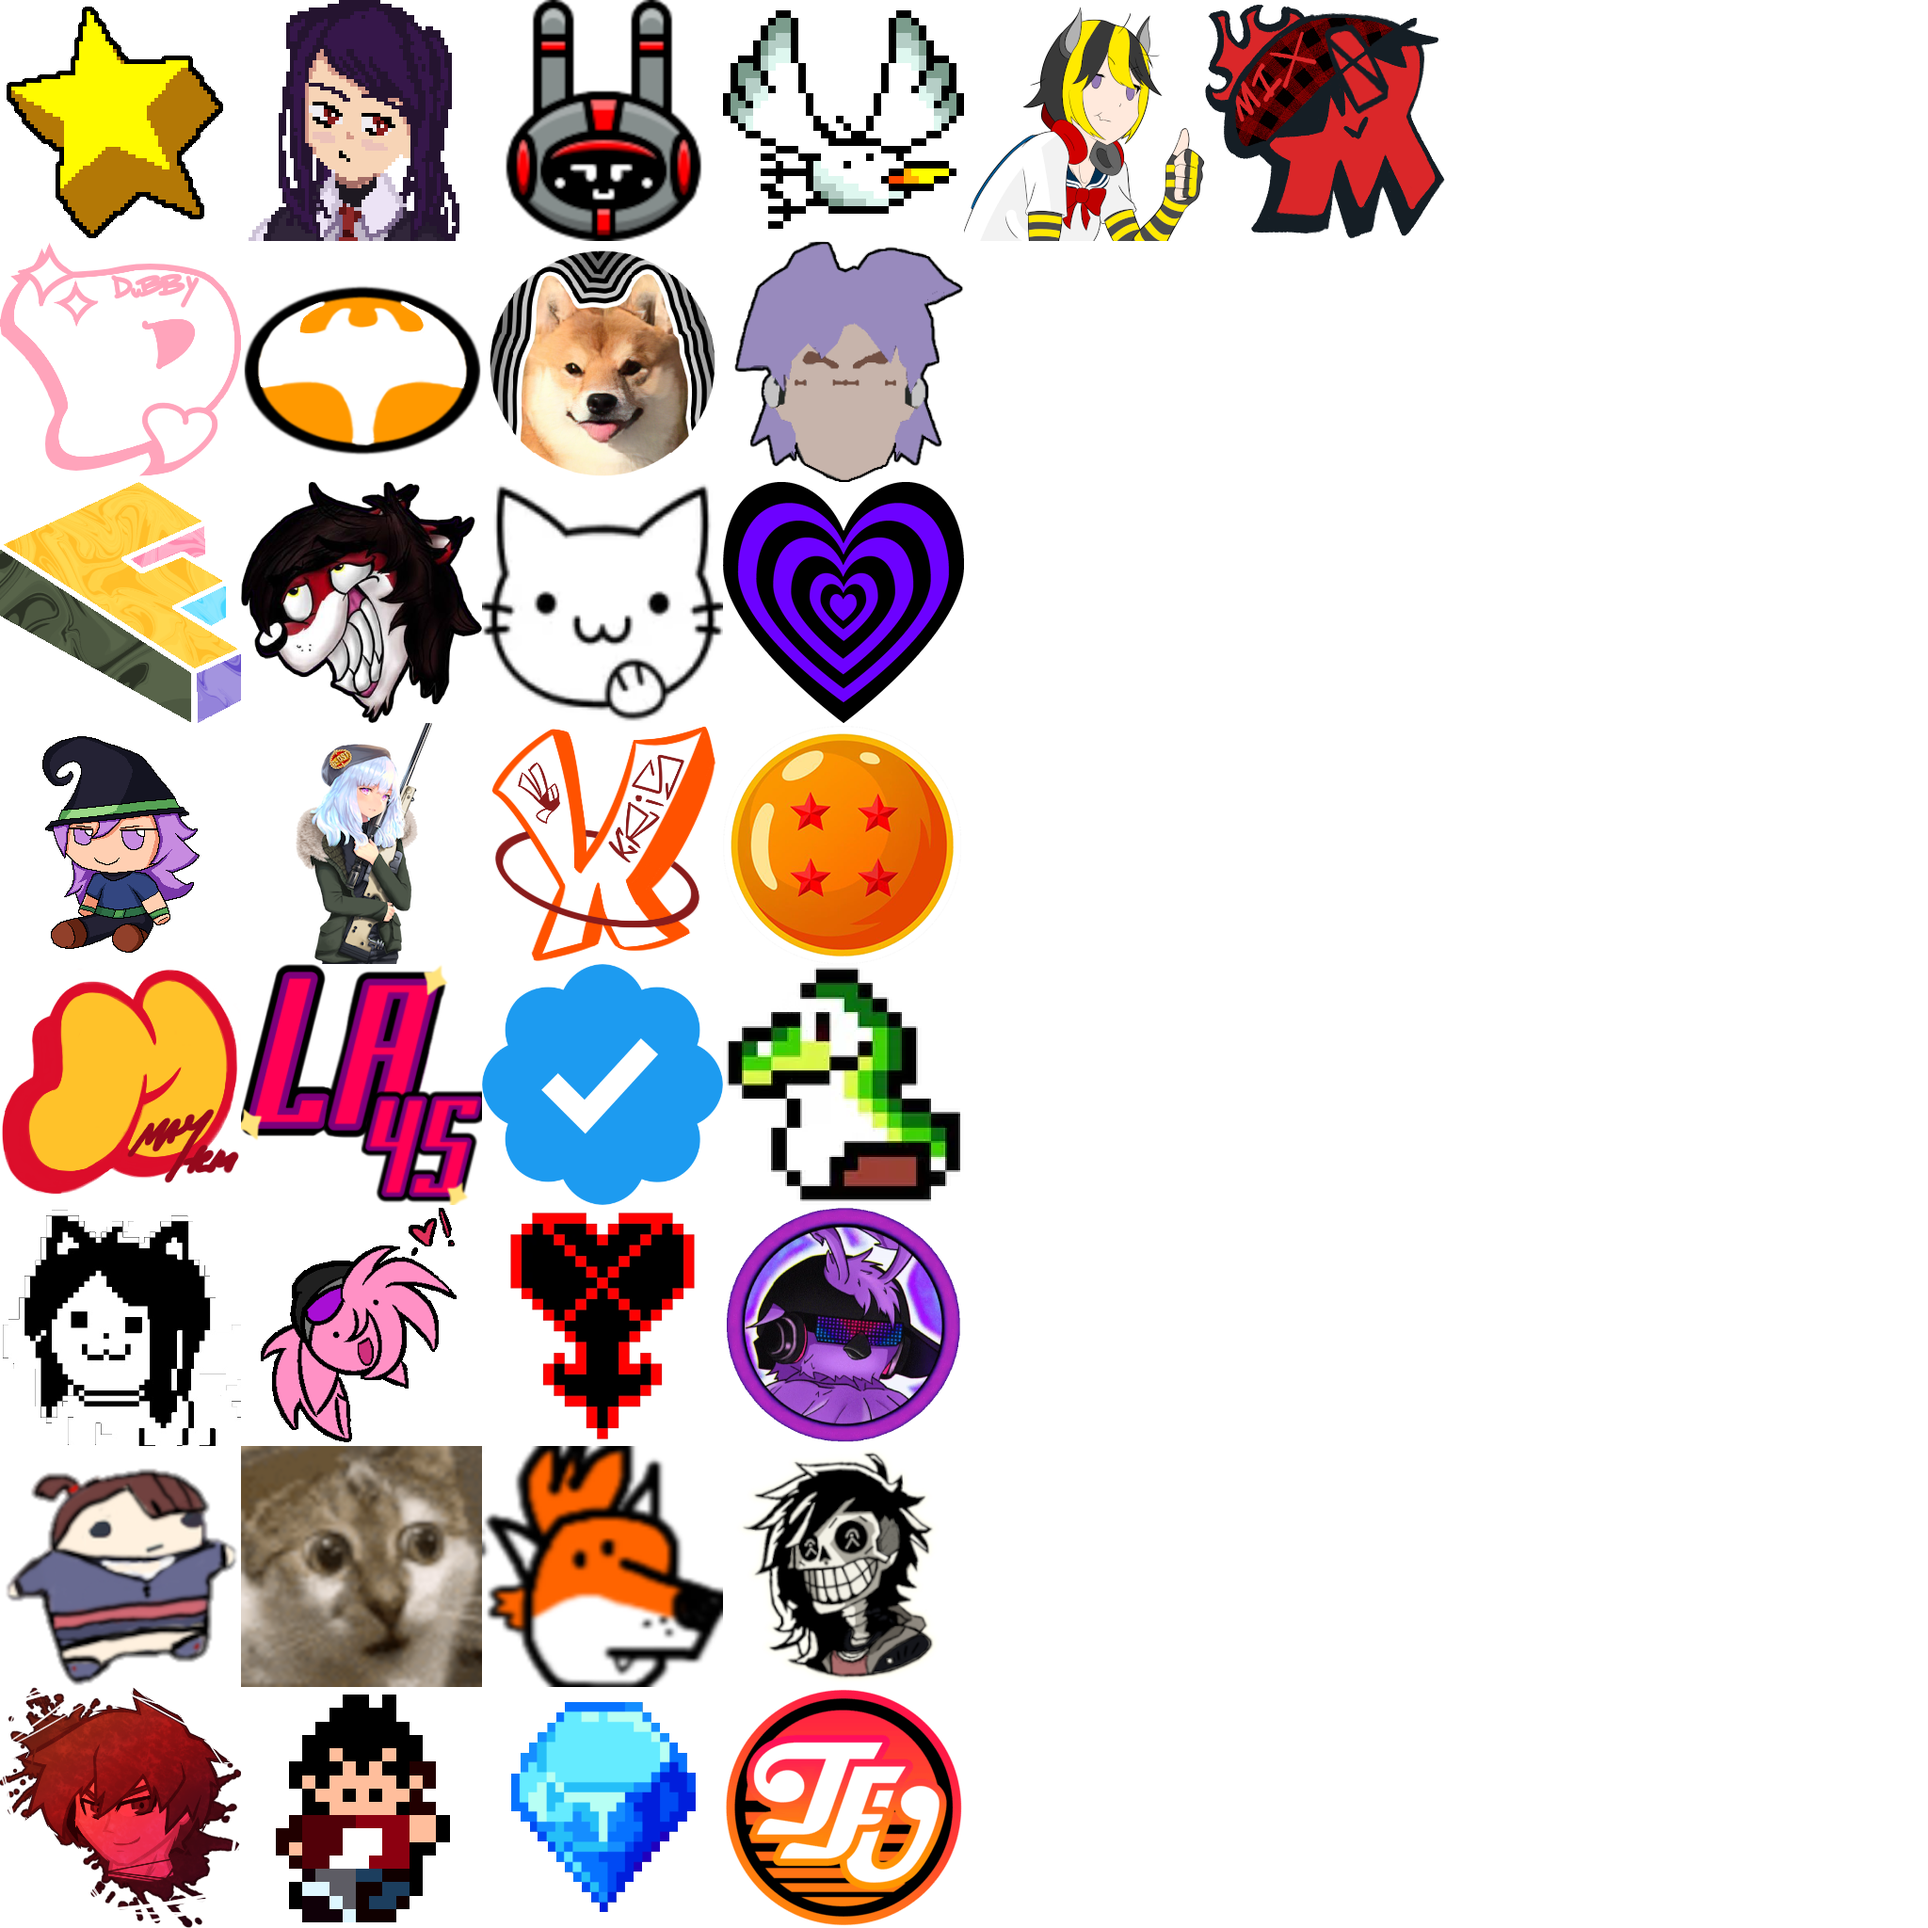
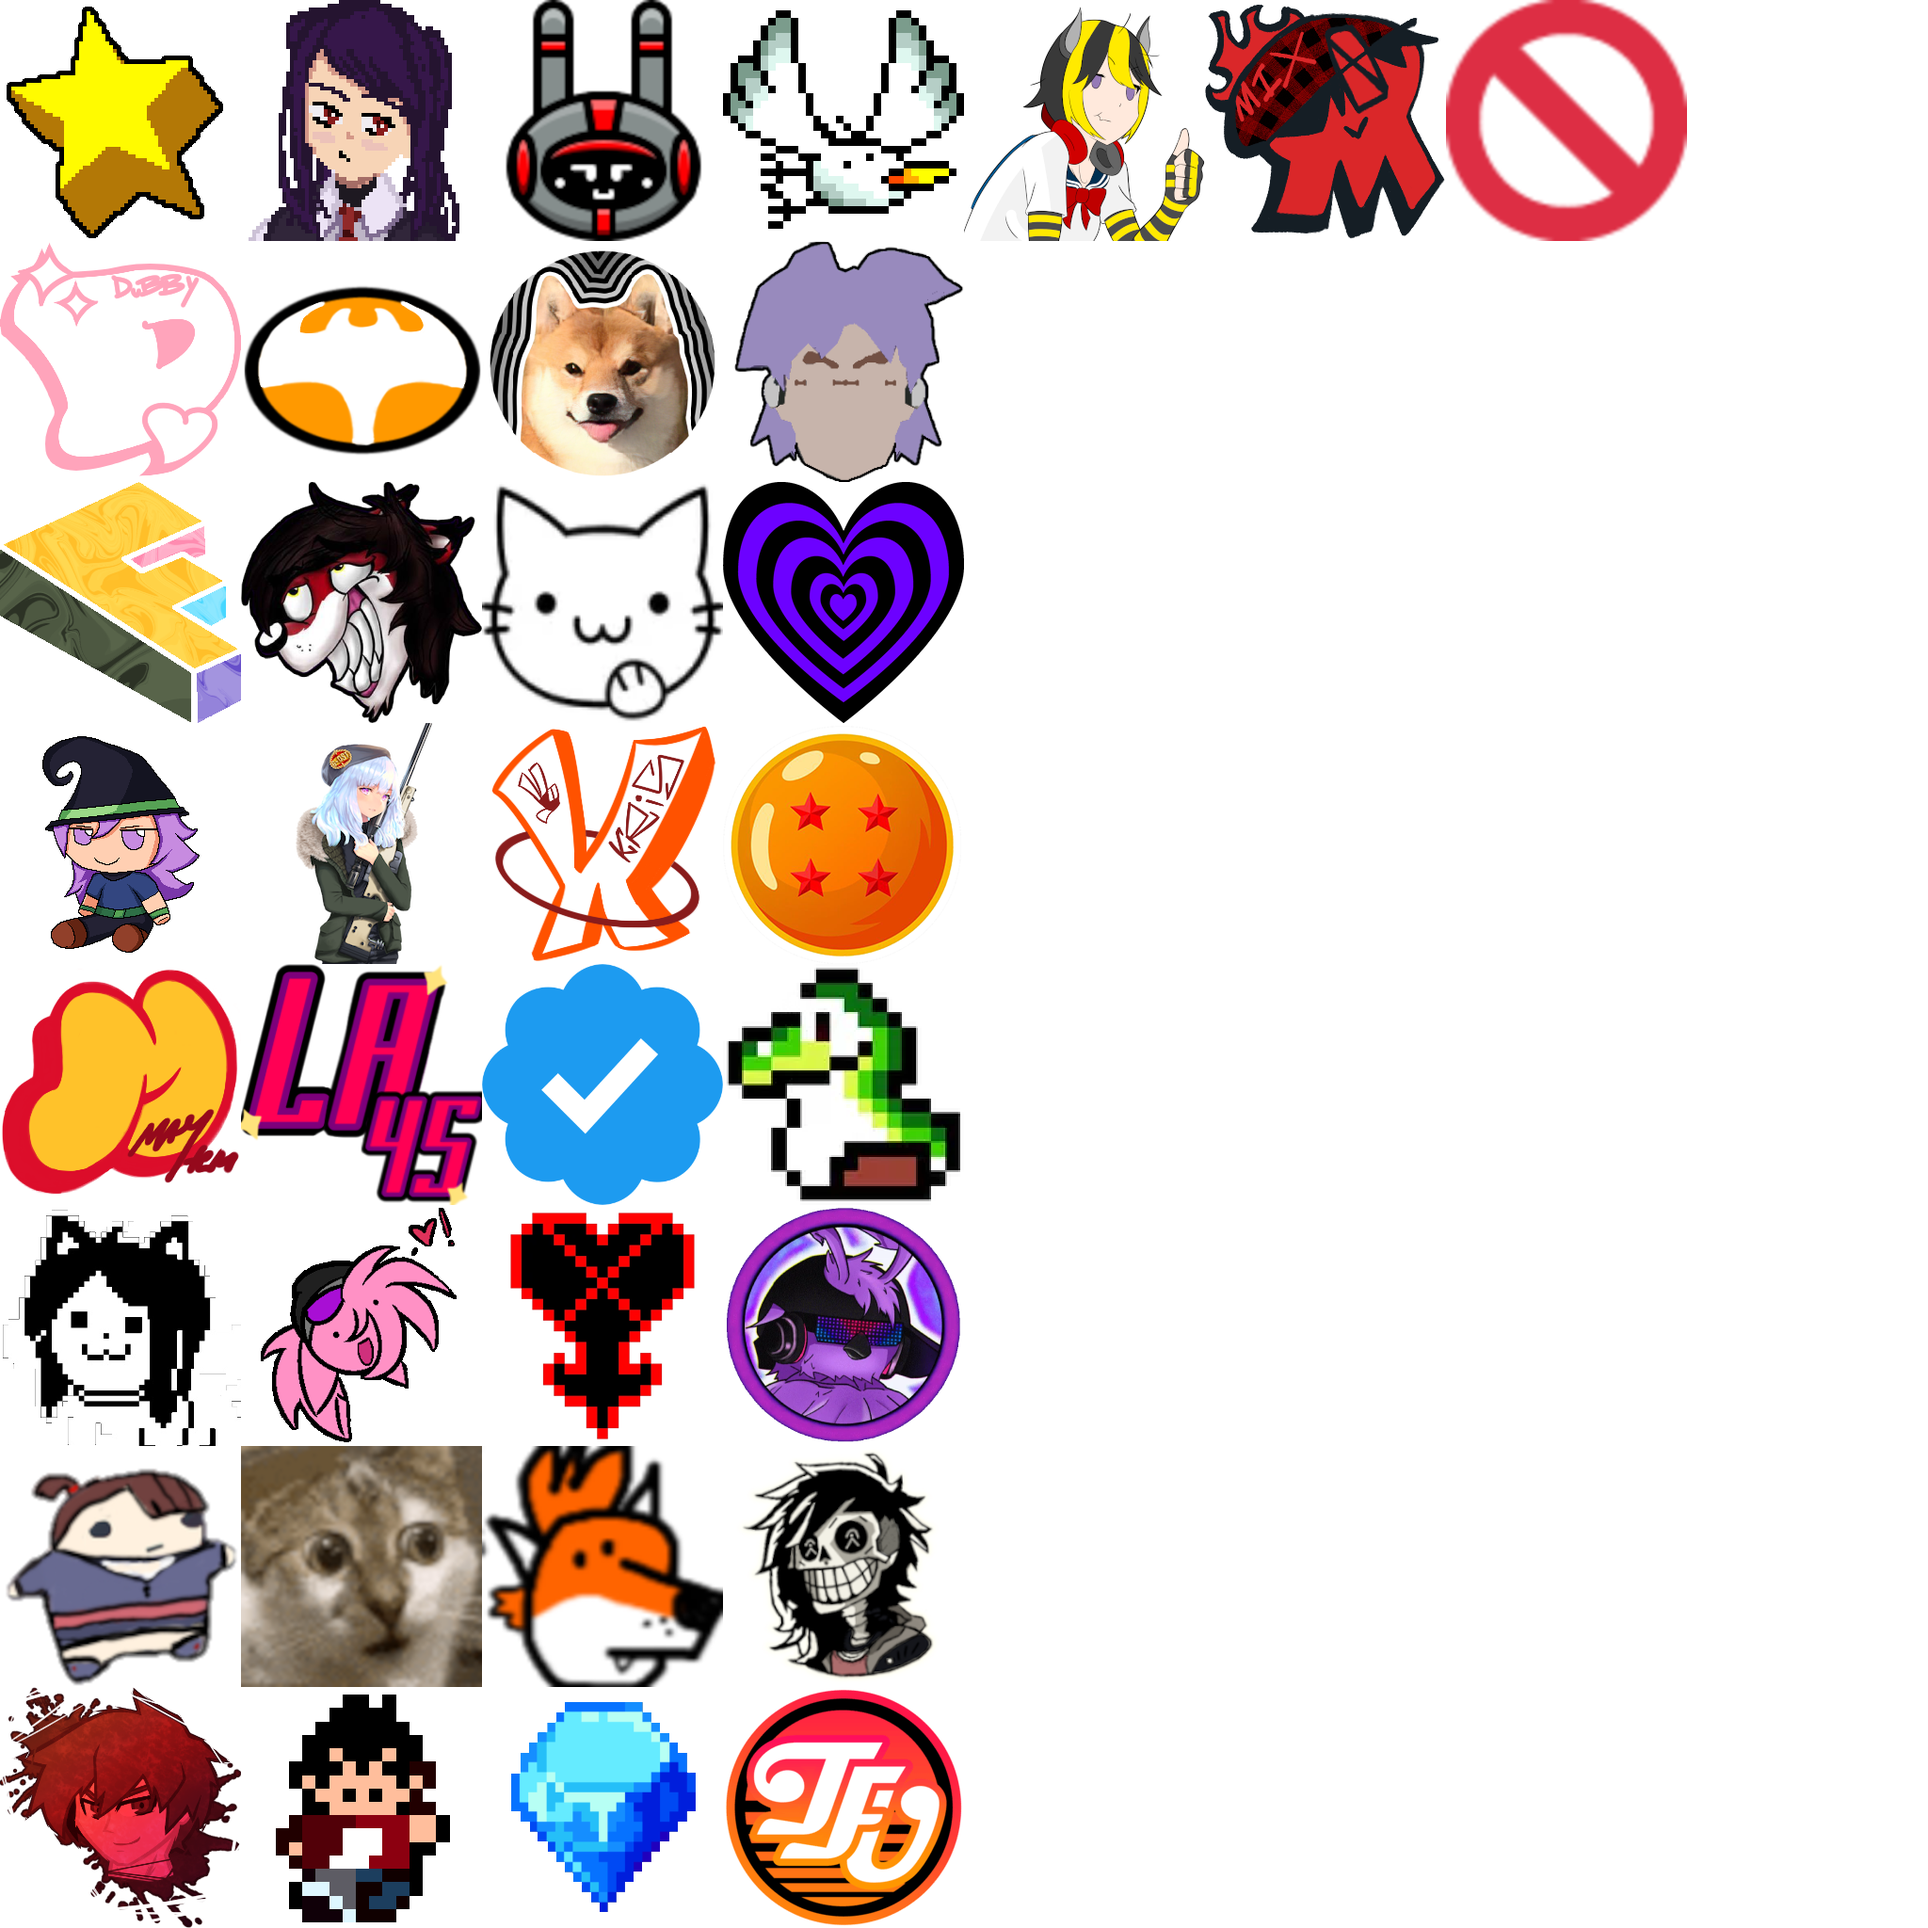
profanity filter: mark filtered text when disabled

Changed region(s): [[0.75, 0.0, 0.875, 0.125]]

diff --git a/BombRushMP.Plugin/MPPlugin.cs b/BombRushMP.Plugin/MPPlugin.cs
@@ -78,9 +78,24 @@ namespace BombRushMP.Plugin
             var harmony = new Harmony(PluginInfo.PLUGIN_GUID);
             harmony.PatchAll();
             InputPatch.Patch(harmony);
+            StageManager.OnStageInitialized += StageManager_OnStageInitialized;
             StageManager.OnStagePostInitialization += StageManager_OnStagePostInitialization;
             ReflectionController.Initialize();
             Logger.LogInfo($"Plugin {PluginInfo.PLUGIN_GUID} is loaded!");
+        }
+
+        private void StageManager_OnStageInitialized()
+        {
+            if (CrewBoomSupport.Installed)
+            {
+                CrewBoomStreamer.ReloadResources();
+                if (!MPSettings.Instance.ReloadCharactersInLoadingScreens && CrewBoomStreamer.AlreadyLoadedThisSession)
+                {
+                    //wao
+                }
+                else
+                    CrewBoomStreamer.ReloadCharacters();
+            }
         }
 
         private void Update()
@@ -110,16 +125,6 @@ namespace BombRushMP.Plugin
 
         private void StageManager_OnStagePostInitialization()
         {
-            if (CrewBoomSupport.Installed)
-            {
-                CrewBoomStreamer.ReloadResources();
-                if (!MPSettings.Instance.ReloadCharactersInLoadingScreens && CrewBoomStreamer.AlreadyLoadedThisSession)
-                {
-                    //wao
-                }
-                else
-                    CrewBoomStreamer.ReloadCharacters();
-            }
             var addr = MPSettings.Instance.ServerAddress;
             var authKey = MPSettings.Instance.AuthKey;
             if (_selfHosting)

diff --git a/BombRushMP.Plugin/MPUtility.cs b/BombRushMP.Plugin/MPUtility.cs
@@ -53,10 +53,12 @@ namespace BombRushMP.Plugin
             name = TMPFilter.Sanitize(name);
             name = TMPFilter.FilterTags(name, MPSettings.Instance.ChatCriteria);
             name = TMPFilter.CloseAllTags(name);
-            if (MPSettings.Instance.FilterProfanity)
+            if (ProfanityFilter.TMPContainsProfanity(name))
             {
-                if (ProfanityFilter.TMPContainsProfanity(name))
+                if (MPSettings.Instance.FilterProfanity)
                     name = "";
+                else
+                    name += ProfanityFilter.FilteredIndicator;
             }
             name = name.Trim();
             if (TMPFilter.RemoveAllTags(name).IsNullOrWhiteSpace())
@@ -69,10 +71,12 @@ namespace BombRushMP.Plugin
             name = TMPFilter.Sanitize(name);
             name = TMPFilter.FilterTags(name, MPSettings.Instance.ChatCriteria);
             name = TMPFilter.CloseAllTags(name);
-            if (MPSettings.Instance.FilterProfanity)
+            if (ProfanityFilter.TMPContainsProfanity(name))
             {
-                if (ProfanityFilter.TMPContainsProfanity(name))
+                if (MPSettings.Instance.FilterProfanity)
                     name = ProfanityFilter.CensoredName;
+                else
+                    name += ProfanityFilter.FilteredIndicator;
             }
             name = name.Trim();
             if (TMPFilter.RemoveAllTags(name).IsNullOrWhiteSpace())

diff --git a/BombRushMP.Plugin/ChatUI.cs b/BombRushMP.Plugin/ChatUI.cs
@@ -112,10 +112,12 @@ namespace BombRushMP.Plugin
             if (serverMessage.MessageType == ChatMessageTypes.Chat)
             {
                 text = TMPFilter.CloseAllTags(TMPFilter.FilterTags(text, MPSettings.Instance.ChatCriteria));
-                if (MPSettings.Instance.FilterProfanity)
+                if (ProfanityFilter.TMPContainsProfanity(text))
                 {
-                    if (ProfanityFilter.TMPContainsProfanity(text))
+                    if (MPSettings.Instance.FilterProfanity)
                         text = ProfanityFilter.CensoredMessage;
+                    else
+                        text += ProfanityFilter.FilteredIndicator;
                 }
                 text = MPUtility.ParseMessageEmojis(text);
                 text = string.Format(ClientConstants.ChatMessage, authorname, text);

diff --git a/BombRushMP.Plugin/ProfanityFilter.cs b/BombRushMP.Plugin/ProfanityFilter.cs
@@ -22,6 +22,8 @@ namespace BombRushMP.Plugin
 
         public const string CensoredName = "Punished Gooner";
 
+        public const string FilteredIndicator = "<sprite=37><color=red>[FILTERED]</color>";
+
         private static List<string> BannedContent = LoadBannedContent();
         private static List<string> SafeWords = LoadSafeWords();
         private static List<string> BadWords = LoadBadWords();
